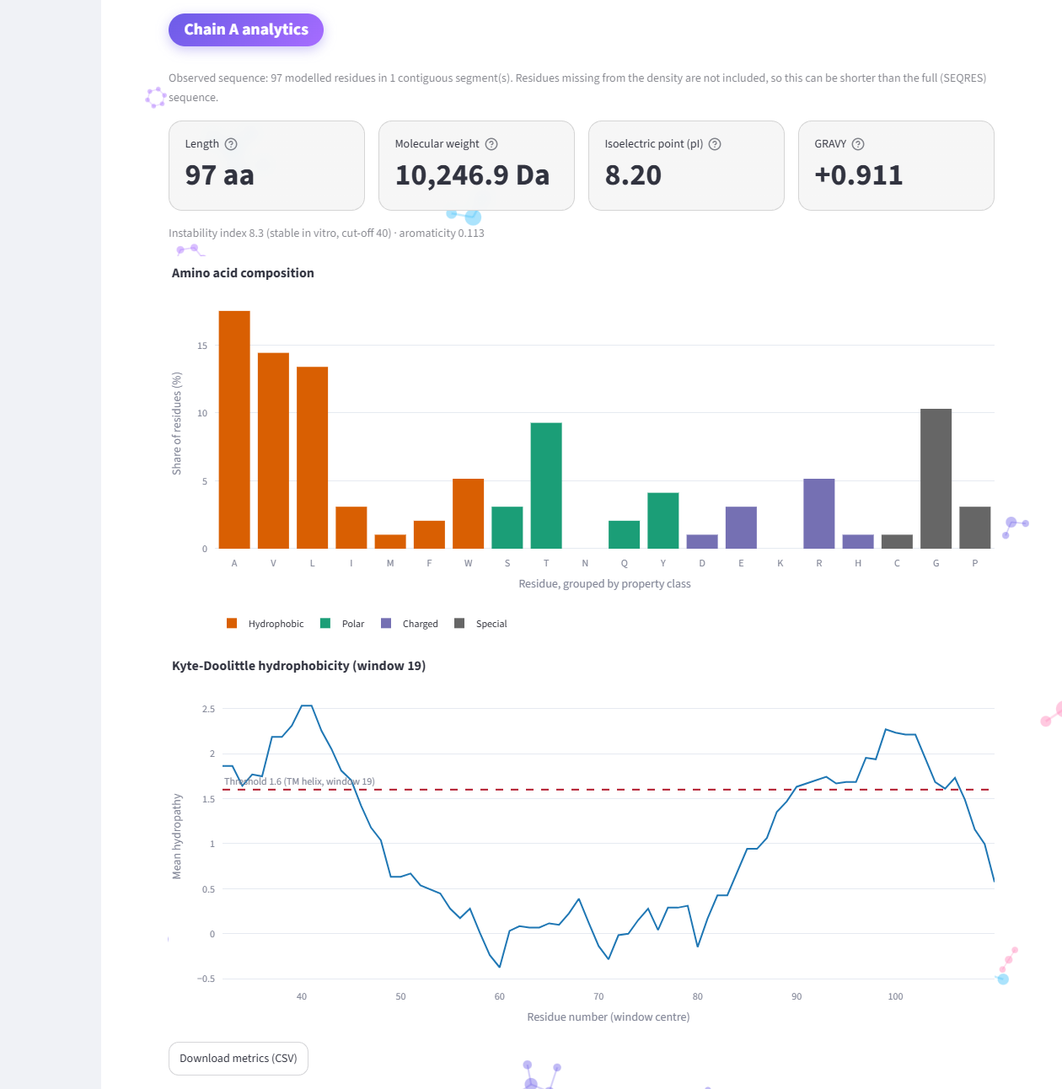
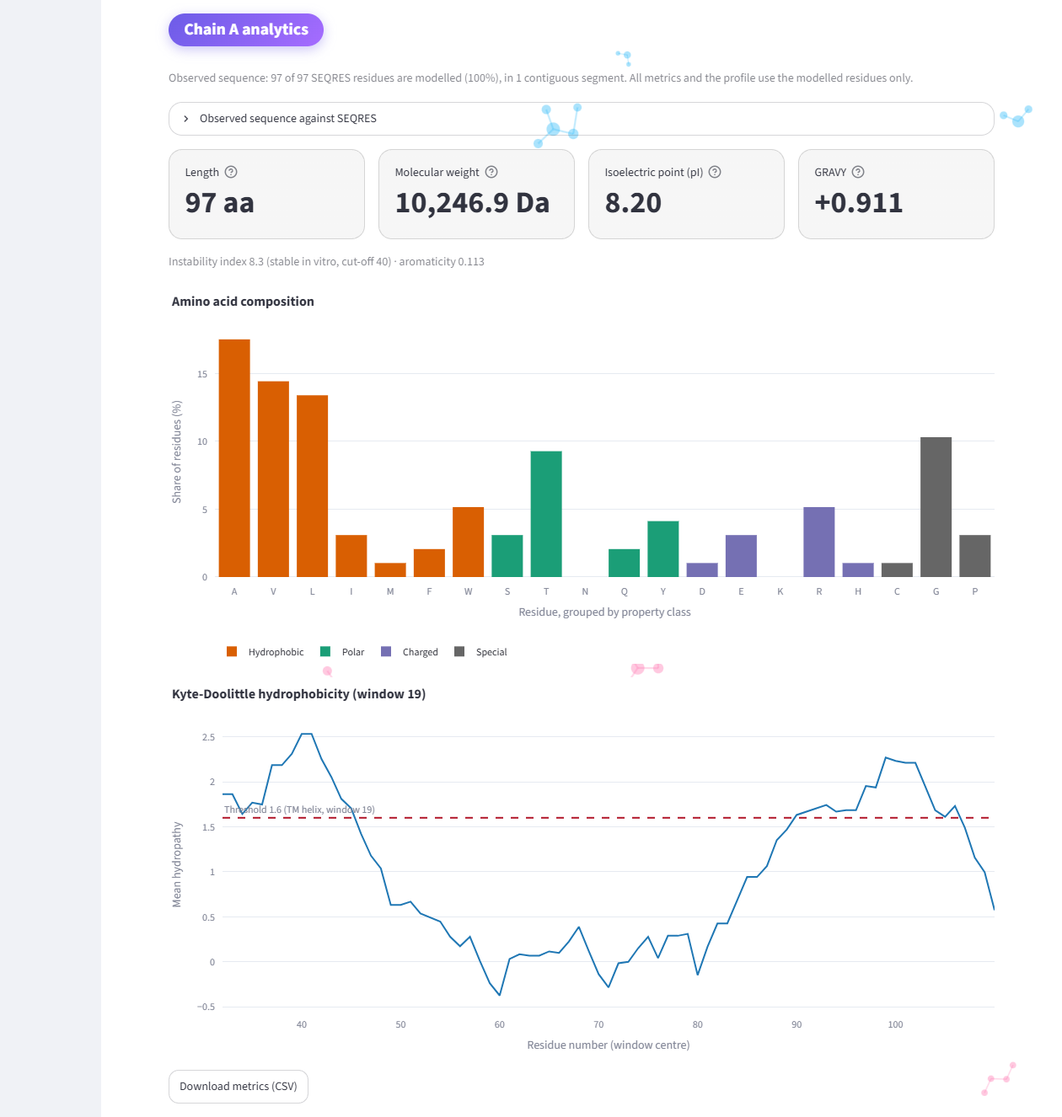
docs: describe gap handling, the SEQRES comparison and st.iframe
- README and interview notes: the profile breaks at gaps, the observed
  sequence is compared with SEQRES (6VXX: 972 of 1,281 deposited residues),
  st.iframe replaces components.html, and why the theme switch is still a
  workaround. Drop limitations that no longer apply and fix the stale claim
  that the viewer background follows the theme.
- Regenerate the charts screenshot for the new captions.
- Add scripts/demo_gif.py, which records the README demo GIF from a running
  app (imageio-ffmpeg joins the screenshots dependency group; the
  deployed requirements.txt is unchanged).

diff --git a/scripts/demo_gif.py b/scripts/demo_gif.py
@@ -1,0 +1,231 @@
+"""Record the README demo GIF from a running app: search -> 3D view -> hydrophobicity plot.
+
+uv sync --group screenshots && uv run playwright install chromium
+uv run python scripts/demo_gif.py --url https://protein-structure-dashboard.streamlit.app/~/+/
+
+On Streamlit Community Cloud the app itself is served under /~/+/ (the bare URL wraps it
+in an iframe). A first, unrecorded pass wakes the app and fills its caches, so the
+recording shows the app's speed rather than RCSB's. Playwright records a video, and the
+ffmpeg bundled with imageio-ffmpeg turns it into a palette-optimised GIF.
+"""
+
+from __future__ import annotations
+
+import argparse
+import re
+import subprocess
+import tempfile
+import time
+from pathlib import Path
+
+import imageio_ffmpeg
+from playwright.sync_api import Page, sync_playwright
+
+OUT = Path(__file__).resolve().parents[1] / "docs" / "img" / "demo.gif"
+# Software GL so the 3D view renders on machines (and CI runners) without a GPU.
+CHROMIUM_ARGS = ["--use-angle=swiftshader", "--enable-unsafe-swiftshader", "--ignore-gpu-blocklist"]
+VIEWPORT = {"width": 1280, "height": 720}
+QUERY = "bacteriorhodopsin"
+PDB_ID = "1KG8"  # a hit for the query, with a disordered loop that breaks the profile
+HYDROPHOBICITY = "Hydrophobicity (Kyte-Doolittle)"
+# Viewport positions of points along the profile's SVG line(s).
+PROFILE_POINTS_JS = """el => {
+  const points = [];
+  for (const path of el.querySelectorAll(".scatterlayer path.js-line")) {
+    const total = path.getTotalLength(), m = path.getScreenCTM();
+    for (let d = 0; d <= total; d += 6) {
+      const p = path.getPointAtLength(d);
+      points.push([p.x * m.a + p.y * m.c + m.e, p.x * m.b + p.y * m.d + m.f]);
+    }
+  }
+  return points;
+}"""
+SECONDS = 14.0  # plus a one-second hold on the last frame: 15 s in all
+HOLD_SECONDS = 1.0
+GIF_WIDTH = 960
+FPS = 12
+
+
+def wait_idle(page: Page) -> None:
+    """Streamlit is done when its 'running' indicator has gone."""
+    time.sleep(0.3)
+    page.locator("[data-testid=stStatusWidget]").wait_for(state="hidden", timeout=180_000)
+
+
+def open_app(page: Page, url: str) -> None:
+    page.goto(url, wait_until="domcontentloaded")
+    wake = page.get_by_role("button", name="Yes, get this app back up!")
+    title = page.get_by_text("Protein Structure Dashboard").first
+    title.or_(wake).wait_for(timeout=120_000)
+    if wake.is_visible():
+        wake.click()
+    title.wait_for(timeout=300_000)
+    page.get_by_role("button", name="1UBQ").wait_for(timeout=120_000)  # the gallery is drawn
+    wait_idle(page)
+
+
+def search_and_open(page: Page, *, typing_delay: float) -> None:
+    page.get_by_label("PDB ID or keyword").click()
+    page.get_by_label("PDB ID or keyword").type(QUERY, delay=typing_delay)
+    page.get_by_role("button", name="Search").click()
+    page.get_by_text("Top 10 results").wait_for(timeout=120_000)
+    wait_idle(page)
+    time.sleep(0.6)
+    page.get_by_role("button", name=PDB_ID).click()
+    page.get_by_text("analytics").first.wait_for(timeout=180_000)
+    wait_idle(page)
+
+
+def colour_by_hydrophobicity(page: Page) -> None:
+    page.locator("[data-testid=stSidebar] [data-testid=stSelectbox]").nth(1).click()
+    page.get_by_role("option", name=HYDROPHOBICITY).click()
+    wait_idle(page)
+
+
+def rotate_molecule(page: Page) -> None:
+    box = page.locator("[data-testid=stMain] iframe").first.bounding_box()
+    assert box
+    x, y = box["x"] + box["width"] / 2, box["y"] + box["height"] / 2
+    page.mouse.move(x - 120, y)
+    page.mouse.down()
+    for step in range(40):
+        page.mouse.move(x - 120 + step * 7, y + (step % 20 - 10) * 1.5)
+        time.sleep(0.03)
+    page.mouse.up()
+
+
+def show_profile(page: Page) -> None:
+    page.get_by_role("button", name="Transmembrane preset").click()
+    # Off the button and out of focus, so its help tooltip closes.
+    page.mouse.move(VIEWPORT["width"] - 40, 80)
+    page.evaluate("document.activeElement && document.activeElement.blur()")
+    page.get_by_text("Kyte-Doolittle hydrophobicity (window 19)").wait_for(timeout=60_000)
+    wait_idle(page)
+    # A smooth scroll so the GIF shows the page moving; a mouse wheel over the 3D view
+    # would zoom the molecule instead.
+    chart = page.locator(".stPlotlyChart").nth(1)
+    chart.evaluate("el => el.scrollIntoView({behavior: 'smooth', block: 'center'})")
+    time.sleep(1.5)
+    # Follow the drawn line up to its highest peak, so Plotly's hover label shows.
+    points = chart.evaluate(PROFILE_POINTS_JS)
+    peak = min(range(len(points)), key=lambda i: points[i][1])
+    for x, y in points[max(0, peak - 14) : peak + 1]:
+        page.mouse.move(x, y)
+        time.sleep(0.05)
+    time.sleep(1.5)
+
+
+def flash_start_marker(page: Page) -> None:
+    """Black out the page for a moment. ffmpeg finds that flash in the video and cuts just
+    after it: wall-clock times drift from the video's own timeline by a second or two."""
+    page.evaluate(
+        """() => {
+          const cover = document.createElement("div");
+          cover.id = "gif-start-marker";
+          cover.style.cssText = "position:fixed;inset:0;background:#000;z-index:2147483647";
+          document.body.append(cover);
+        }"""
+    )
+    time.sleep(0.6)
+    page.evaluate("document.getElementById('gif-start-marker').remove()")
+
+
+def record(url: str, video_dir: Path) -> Path:
+    """Warm the app up, then record the demo; returns the video file."""
+    with sync_playwright() as playwright:
+        browser = playwright.chromium.launch(args=CHROMIUM_ARGS)
+
+        warm = browser.new_page(viewport=VIEWPORT)
+        open_app(warm, url)
+        search_and_open(warm, typing_delay=0)
+        show_profile(warm)
+        warm.close()
+
+        context = browser.new_context(
+            viewport=VIEWPORT, record_video_dir=str(video_dir), record_video_size=VIEWPORT
+        )
+        page = context.new_page()
+        open_app(page, url)
+        flash_start_marker(page)
+        time.sleep(0.8)
+        search_and_open(page, typing_delay=70)
+        colour_by_hydrophobicity(page)
+        page.locator("[data-testid=stMain] iframe").first.screenshot()  # wake WebGL frames
+        time.sleep(1.0)
+        rotate_molecule(page)
+        time.sleep(0.5)
+        show_profile(page)
+        video = page.video
+        context.close()  # the video ends here
+        browser.close()
+        assert video
+        return Path(video.path())
+
+
+def video_seconds(ffmpeg: str, video: Path) -> float:
+    probe = subprocess.run([ffmpeg, "-i", str(video)], capture_output=True, text=True)
+    match = re.search(r"Duration: (\d+):(\d+):([\d.]+)", probe.stderr)
+    assert match, probe.stderr
+    hours, minutes, seconds = match.groups()
+    return int(hours) * 3600 + int(minutes) * 60 + float(seconds)
+
+
+def after_start_marker(ffmpeg: str, video: Path) -> float:
+    """Seconds into the video where the black start marker ends."""
+    probe = subprocess.run(
+        [ffmpeg, "-i", str(video), "-vf", "blackdetect=d=0.2:pix_th=0.1", "-an", "-f", "null", "-"],
+        capture_output=True,
+        text=True,
+    )
+    ends = re.findall(r"black_end:([\d.]+)", probe.stderr)
+    assert ends, "the black start marker was not found in the video"
+    return float(ends[-1]) + 0.1  # nothing in the app itself is ever all black
+
+
+def to_gif(video: Path, out: Path) -> None:
+    """Cut to the demo, fit it into SECONDS, hold the last frame, and encode with one
+    shared palette."""
+    ffmpeg = imageio_ffmpeg.get_ffmpeg_exe()
+    begin, end = after_start_marker(ffmpeg, video), video_seconds(ffmpeg, video)
+    speed = max(1.0, (end - begin) / SECONDS)
+    filters = (
+        f"setpts=PTS/{speed:.3f},fps={FPS},scale={GIF_WIDTH}:-1:flags=lanczos,"
+        f"tpad=stop_mode=clone:stop_duration={HOLD_SECONDS},"
+        "split[a][b];[a]palettegen=max_colors=128:stats_mode=diff[p];"
+        "[b][p]paletteuse=dither=bayer:bayer_scale=4:diff_mode=rectangle"
+    )
+    out.parent.mkdir(parents=True, exist_ok=True)
+    subprocess.run(
+        [
+            ffmpeg,
+            "-y",
+            "-ss",
+            f"{begin:.2f}",
+            "-to",
+            f"{end:.2f}",
+            "-i",
+            str(video),
+            "-vf",
+            filters,
+            "-loop",
+            "0",
+            str(out),
+        ],
+        check=True,
+        capture_output=True,
+    )
+
+
+def main() -> None:
+    parser = argparse.ArgumentParser(description=__doc__)
+    parser.add_argument("--url", default="http://localhost:8501")
+    parser.add_argument("--out", type=Path, default=OUT)
+    args = parser.parse_args()
+
+    with tempfile.TemporaryDirectory() as tmp:
+        to_gif(record(args.url, Path(tmp)), args.out)
+    print(f"Wrote {args.out} ({args.out.stat().st_size / 1e6:.1f} MB)")
+
+
+if __name__ == "__main__":
+    main()

diff --git a/README.md b/README.md
@@ -20,10 +20,11 @@ A Streamlit dashboard that fetches any entry from the [RCSB Protein Data Bank](h
 - **Search by PDB ID or keyword.** An ID such as `1UBQ` opens the entry directly. Free text such as `hemoglobin` runs an RCSB full-text search and lists the top hits. The selected entry is kept in the URL (`?pdb=1UBQ`), so every view is linkable.
 - **Interactive 3D viewer.** Cartoon rendering with three colouring modes: by chain, N→C spectrum, and per-residue Kyte-Doolittle hydrophobicity. It also offers an optional solvent-accessible surface, ligands as sticks, and dimming of the chains you are not analysing.
 - **Per-chain analytics.** Length, average molecular weight, isoelectric point, GRAVY, instability index and aromaticity, plus a composition bar chart grouped by property class (hydrophobic, polar, charged, special).
-- **Hydrophobicity profile.** A sliding-window Kyte-Doolittle plot with an adjustable odd window (3-39) and a one-click transmembrane preset (window 19, threshold 1.6). Hover shows the residue number and amino acid.
+- **Hydrophobicity profile.** A sliding-window Kyte-Doolittle plot with an adjustable odd window (3-39) and a one-click transmembrane preset (window 19, threshold 1.6). Hover shows the residue number and amino acid. No window ever spans a gap: the line breaks wherever residues are missing from the density (or non-standard), and residues that are in SEQRES but not modelled are shaded grey.
+- **Observed sequence against SEQRES.** Each chain says how many residues of the deposited (SEQRES) sequence are modelled, lists the missing stretches in the structure's own numbering, flags modelled residues that differ from SEQRES or have no SEQRES position, and shows both sequences aligned.
 - **CSV export** of the metrics for the selected chain.
 - **Interactive background.** Small ball-and-stick molecules drift behind the page, are pushed away by the mouse pointer, and faint bonds reach from the pointer to nearby molecules. It is one canvas drawn by a short script (`background.py`) with no network access, and it is switched off for visitors who ask their system for reduced motion.
-- **Navigation and theme.** A menu at the top of the sidebar has a Home button (back to the example gallery) and a light/dark switch. The 3D viewer's background follows the theme.
+- **Navigation and theme.** A menu at the top of the sidebar has a Home button (back to the example gallery) and a light/dark switch. The 3D viewer keeps a white canvas in both themes.
 - **Sensible handling of awkward entries.** Modified residues (e.g. selenomethionine), chains with gaps in the electron density, NMR ensembles (first model only), non-protein entries, and very large assemblies (backbone-only rendering above 50,000 atoms) are all handled and explained in the UI instead of crashing.
 
 ![Per-chain analytics: composition bars and a Kyte-Doolittle profile of KcsA (1BL8) with the transmembrane threshold](docs/img/charts.png)
@@ -44,7 +45,7 @@ flowchart LR
     Structure -. "sequence" .-> Analysis
     App --> Charts["charts.py<br/>Plotly figures"]
     Analysis --> Charts
-    App --> Viewer["viewer.py<br/>Py3Dmol view + components.html"]
+    App --> Viewer["viewer.py<br/>Py3Dmol view + st.iframe"]
     Structure --> Viewer
     Streamlit["streamlit_app.py<br/>Cloud entry point"] --> App
 ```
@@ -52,8 +53,8 @@ flowchart LR
 | Module | Responsibility | Touches network / Streamlit? |
 | --- | --- | --- |
 | `rcsb_client.py` | Fetch entry metadata, mmCIF files and search results. Retries with backoff. | Network only |
-| `structure.py` | Parse mmCIF with Biopython into chains, observed sequences and ligands. Trim files for the viewer. | No |
-| `analysis.py` | Composition, MW, pI, GRAVY, Kyte-Doolittle windows. | No |
+| `structure.py` | Parse mmCIF with Biopython into chains, observed sequences, gaps, SEQRES and ligands. Compare observed with SEQRES. Trim files for the viewer. | No |
+| `analysis.py` | Composition, MW, pI, GRAVY, gap-aware Kyte-Doolittle windows. | No |
 | `charts.py` | Turn analysis results into Plotly figures. | No |
 | `viewer.py` | Build a Py3Dmol scene and embed it. | Streamlit only in one wrapper function |
 | `app.py` | Layout, widgets, caching, error messages. | Streamlit |
@@ -99,9 +100,11 @@ The image is multi-stage (dependencies are installed with uv in a builder stage)
 
 **Caching and rate limits.** RCSB is a free public service, so the app is polite to it. Entry metadata, mmCIF text, parsed structures and search results are cached with `st.cache_data` for 24 hours (PDB entries are effectively immutable, so stale data is not a real risk). The client sends a descriptive `User-Agent`, uses connect/read timeouts, and retries only what is worth retrying: connection errors, timeouts, HTTP 429 and 5xx. It honours `Retry-After` (capped at 10 s) and otherwise backs off exponentially. A 404 is not retried; it becomes a clear "entry not found" message. Retry sleeping is injectable, so the tests do not actually wait.
 
-**Why `components.html` and not `stmol`.** `stmol` is a thin wrapper around Py3Dmol that adds a dependency and tends to lag behind Streamlit releases. Py3Dmol already produces a self-contained HTML page via `view._make_html()`, and Streamlit can embed it with `streamlit.components.v1.html`. The entire embedding lives in one function, `viewer.show_view`, so swapping the mechanism later is a one-function change. Note that recent Streamlit versions print a deprecation notice for `components.html` in favour of `st.iframe`. It still works, and that one wrapper is where the migration would happen.
+**Why `st.iframe` and not `stmol`.** `stmol` is a thin wrapper around Py3Dmol that adds a dependency and tends to lag behind Streamlit releases. Py3Dmol already produces a self-contained HTML page via its public `view.write_html()`, and Streamlit embeds it with `st.iframe`, the supported replacement for the deprecated `streamlit.components.v1.html`. `st.iframe` runs that HTML with full JavaScript access, so it must never receive user input; here the page is built by our own code from RCSB coordinates. The entire embedding lives in one function, `viewer.show_view`.
 
-**Observed sequence versus SEQRES.** The chain sequence the dashboard analyses is the *observed* one: the residues that actually have coordinates in the structure. The deposited full-length (SEQRES) sequence can be longer, because flexible loops, tags and termini are often missing from the electron density. For example, chain A of the SARS-CoV-2 spike in 6VXX has 972 modelled residues in 12 segments, while the full chain is 1,273 residues. Analysing the observed sequence keeps the 3D view, the sequence and the plots consistent with one another (residue numbers in the hover text match the structure), and the UI says explicitly when the observed sequence is shorter than expected. Known modified residues are mapped to their parent amino acid (for example selenomethionine to methionine) and unknown ones become `X`, so positions in the sequence never shift.
+**Observed sequence versus SEQRES.** The chain sequence the dashboard analyses is the *observed* one: the residues that actually have coordinates in the structure. The deposited (SEQRES) sequence can be longer, because flexible loops, tags and termini are often missing from the electron density. For example, chain A of the SARS-CoV-2 spike in 6VXX has 972 modelled residues in 12 segments, out of 1,281 in the deposited sequence. Analysing the observed sequence keeps the 3D view, the sequence and the plots consistent with one another (residue numbers in the hover text match the structure). The UI then shows exactly where the two differ. It reads the SEQRES-to-structure mapping (`_pdbx_poly_seq_scheme`) from the mmCIF file it has already downloaded, so there is no extra request. It lines the modelled residues up with it by author residue number, and lists the stretches that are not modelled (in 6VXX: −18 to 26, 70–79, 144–164 and so on). It also lists any modelled residue whose type differs from SEQRES, and any that has no SEQRES position. Known modified residues are mapped to their parent amino acid (for example selenomethionine to methionine) and unknown ones become `X`, so positions in the sequence never shift.
+
+**Gaps break the hydrophobicity profile.** A sliding window that runs across a gap averages residues that are not neighbours in the chain. For example, the last residues before a disordered loop get averaged with the first residues after it, which can invent a hydrophobic stretch or hide one. So the profile is computed separately for each gap-free stretch of standard residues. Each stretch of length *n* gives *n − w + 1* points, stretches shorter than the window give none, and the plotted line is broken between stretches. Gaps are detected from the coordinates rather than from the numbering. Two consecutive residues are neighbours if their peptide bond C–N is under 1.8 Å, or, in models that have only Cα atoms, if Cα–Cα is under 4.3 Å. This also catches loops that the depositors left out of SEQRES altogether, as in bacteriorhodopsin 1C3W, where residues 157–161 are missing from both. A non-standard residue (`X`) breaks a window too, because it has no Kyte-Doolittle value. The window slider is capped at the longest gap-free stretch, so every offered window produces a profile.
 
 **Server-side file trimming for the viewer.** Large mmCIF files are expensive for the browser. Before sending a structure to the viewer, `structure.trim_mmcif` keeps only the first model and the atoms needed for a cartoon (plus the secondary-structure records), and above 50,000 atoms the viewer drops the surface, ligands and chain dimming.
 
@@ -112,11 +115,11 @@ make test          # pytest with coverage, no network required
 make lint          # ruff check, ruff format --check, mypy
 ```
 
-- 132 tests, about 97% line coverage, none of which touch the network.
-- `analysis`: ubiquitin molecular weight (≈ 8564.7 Da), composition sums to 100%, Kyte-Doolittle profile length is `L - w + 1`, invalid characters are handled, window validation.
-- `structure`: a real 1UBQ mmCIF fixture (`tests/data/1UBQ.cif`: one chain, 76 residues, expected sequence) and synthetic files for modified residues, gaps, ligands, water and multiple models.
+- 161 tests, about 98% line coverage, none of which touch the network.
+- `analysis`: ubiquitin molecular weight (≈ 8564.7 Da), composition sums to 100%, Kyte-Doolittle profile length is `L - w + 1` and matches Biopython on a gap-free chain, no window spans a gap or an `X`, invalid characters are handled, window validation.
+- `structure`: a real 1UBQ mmCIF fixture (`tests/data/1UBQ.cif`: one chain, 76 residues, expected sequence, SEQRES fully modelled) and synthetic files for modified residues, gaps, Cα-only models, ligands, water, multiple models, and SEQRES with missing, mismatched, heterogeneous and unmatched residues.
 - `rcsb_client`: HTTP mocked with [`responses`](https://github.com/getsentry/responses): success, 404, 429 followed by success, timeouts, retry exhaustion, invalid IDs.
-- `app`: Streamlit's `AppTest` smoke tests drive the real UI against a fake client.
+- `app`: Streamlit's `AppTest` smoke tests drive the real UI against a fake client, including a synthetic gapped entry (SEQRES summary, warnings, alignment, slider cap) and the one-off theme script.
 - CI (`.github/workflows/ci.yml`) runs lint → tests with coverage → Docker build and container health check, and verifies that `requirements.txt` is in sync with `uv.lock`.
 
 The screenshots in this README are generated by `scripts/screenshots.py` (Playwright, headless Chromium) against a running app:
@@ -127,16 +130,23 @@ uv run streamlit run streamlit_app.py --server.port 8599 &
 uv run python scripts/screenshots.py --url http://localhost:8599
 ```
 
+The demo GIF at the top is recorded the same way by `scripts/demo_gif.py`, here against the live demo. The script warms the app up first, records a Playwright video, and converts it with the ffmpeg bundled in `imageio-ffmpeg`. On Community Cloud the app itself is served under `/~/+/`:
+
+```bash
+uv run python scripts/demo_gif.py --url https://protein-structure-dashboard.streamlit.app/~/+/
+```
+
 ## Limitations and next steps
 
 - **Live API dependency.** If RCSB is down or slow, the app shows an error; there is no persistent cache or offline mode beyond Streamlit's in-memory cache.
-- **Observed sequences only.** The SEQRES sequence is not analysed, and Kyte-Doolittle windows slide across gaps in the observed sequence as if the residues were adjacent. Modified residues are analysed as their parent amino acid (so the mass of selenomethionine is that of methionine), and unknown residues become `X`, are excluded from the metrics, and are reported in the UI.
+- **Observed sequences only.** The metrics describe the modelled residues. SEQRES is shown and compared with them, but not analysed itself, so for example the molecular weight is not that of the full deposited chain. Modified residues are analysed as their parent amino acid (so the mass of selenomethionine is that of methionine), and unknown residues become `X`, are excluded from the metrics, and are reported in the UI.
+- **Microheterogeneity.** A few entries deposit two residue types at one position (crambin 1EJG, for example). Biopython's mmCIF parser rejects those files, so the app shows a parse error for them instead of a structure.
 - **Average molecular weight only** (monoisotopic mass is implemented in the analysis function but not exposed in the UI), and only for the protein chains; nucleic acid chains are skipped.
 - **Very large assemblies** (e.g. ribosomes) can take 20 s or more to download and render, and are drawn as backbone only.
-- **The theme switch is a workaround.** Streamlit has no Python API to change the theme, so the sidebar button runs a tiny script that presses the item in Streamlit's own menu (and its "Rerun", because `st.context.theme` only updates on the next run). It relies on that menu's internal element IDs, so it is tested against the pinned Streamlit version and does nothing, rather than breaking, if they change. The built-in menu (⋮ → Light / Dark) always works.
+- **The theme switch is a workaround.** Streamlit (checked up to 1.66.1, the latest release) has no supported way to change the theme: `st.context.theme` is read-only, and theme options cannot be set while the app runs. So the sidebar button runs a tiny script that presses the item in Streamlit's own menu (and its "Rerun", because `st.context.theme` only updates on the next run and the button's icon depends on it). The script goes through the supported `st.html(..., unsafe_allow_javascript=True)`, not the deprecated `components.html`. It still relies on the menu's internal element IDs, so it is tested against the pinned Streamlit version and does nothing, rather than breaking, if they change. The built-in menu (⋮ → Light / Dark) always works.
 - **Classic four-character PDB IDs only**; the extended `pdb_` format is not supported.
 - **Docker image is about 850 MB**; a smaller image would need dependency pruning.
-- **Next steps:** analyse SEQRES via the polymer entity API, compare chains side by side, add secondary-structure and B-factor views, precompute metrics for popular entries, and move to `st.iframe` once it is the stable embedding mechanism.
+- **Next steps:** offer metrics for the full SEQRES sequence next to the observed ones, compare chains side by side, add secondary-structure and B-factor views, and precompute metrics for popular entries.
 
 ## License
 

diff --git a/docs/INTERVIEW.md b/docs/INTERVIEW.md
@@ -6,9 +6,9 @@ Written for my own preparation. Everything below describes what is actually in t
 
 I built a Streamlit dashboard for exploring protein structures. You type a PDB ID or a keyword, it fetches the entry from the RCSB Protein Data Bank over their REST API, shows an interactive 3D model with Py3Dmol, and analyses each protein chain with Biopython: amino acid composition, molecular weight, isoelectric point, GRAVY, and a sliding-window Kyte-Doolittle hydrophobicity profile, all as interactive Plotly charts.
 
-The part I care most about is the structure of the code. The analysis module is pure Python: it takes a string and returns numbers, with no Streamlit or network inside, so I could test it against known values like the molecular weight of ubiquitin. The RCSB client has timeouts, retries with backoff for 429 and 5xx, and is tested with mocked HTTP, so the whole test suite (132 tests, about 97% coverage) runs in CI without a network. It is containerised with a multi-stage, non-root Docker image, and GitHub Actions runs ruff, mypy, pytest and a Docker build on every push.
+The part I care most about is the structure of the code. The analysis module is pure Python: it takes a string and returns numbers, with no Streamlit or network inside, so I could test it against known values like the molecular weight of ubiquitin. The RCSB client has timeouts, retries with backoff for 429 and 5xx, and is tested with mocked HTTP, so the whole test suite (161 tests, about 98% coverage) runs in CI without a network. It is containerised with a multi-stage, non-root Docker image, and GitHub Actions runs ruff, mypy, pytest and a Docker build on every push.
 
-A lesson from using real data: the sequence of a PDB chain is not what you think it is. Only residues that were actually modelled have coordinates, so I analyse the observed sequence and say so in the UI instead of silently showing numbers for a different sequence than the one in the 3D view.
+A lesson from using real data: the sequence of a PDB chain is not what you think it is. Only residues that were actually modelled have coordinates, so I analyse the observed sequence, show exactly where it differs from the deposited one, and never let a hydrophobicity window run across a gap as if the residues on either side were neighbours.
 
 ## Questions and answers
 
@@ -16,7 +16,7 @@ A lesson from using real data: the sequence of a PDB chain is not what you think
 The legacy PDB format has fixed-width columns that cap out at 99,999 atoms, 62 chains and 3-character residue names. Large structures such as ribosomes and viral capsids cannot be written in it, and the PDB archive no longer guarantees PDB-format files for new entries. mmCIF is the archive's primary format; it is a self-describing key-value/table format, extensible, and Biopython's `MMCIFParser` reads it. The cost is that it is verbose and slower to parse, which is why I trim files before they go to the browser.
 
 ### 2. What is the difference between the observed sequence and SEQRES?
-SEQRES is the full sequence of the molecule that was deposited. The observed sequence is the subset of residues that have atomic coordinates. Disordered loops, flexible termini and expression tags are often missing from the electron density, so the observed sequence can be shorter and have gaps. In 6VXX, chain A of the SARS-CoV-2 spike has 972 modelled residues in 12 segments, against 1,273 in the full chain. I analyse the observed sequence so the metrics, the plots and the 3D view all describe the same residues, and I show a caption explaining it. The trade-off is that the metrics (molecular weight especially) are not those of the full protein, which I list as a limitation.
+SEQRES is the full sequence of the molecule that was deposited. The observed sequence is the subset of residues that have atomic coordinates. Disordered loops, flexible termini and expression tags are often missing from the electron density, so the observed sequence can be shorter and have gaps. In 6VXX, chain A of the SARS-CoV-2 spike has 972 modelled residues in 12 segments, against 1,281 in the deposited sequence. I analyse the observed sequence so the metrics, the plots and the 3D view all describe the same residues. The UI also shows where the two differ. The mmCIF file already contains the SEQRES-to-structure mapping (`_pdbx_poly_seq_scheme`), so I line the modelled residues up with it by author number. Then I list the missing stretches, flag any modelled residue whose type differs from SEQRES, and show both sequences aligned. The trade-off is that the metrics (molecular weight especially) are not those of the full protein, which I list as a limitation.
 
 ### 3. What is GRAVY, and how does it differ from the hydrophobicity profile?
 GRAVY (grand average of hydropathy) is the mean Kyte-Doolittle value over all residues of the chain: one number for the whole protein. Positive means more hydrophobic overall, negative means more hydrophilic (ubiquitin is about -0.49). The profile is the same scale averaged over a sliding window, so it keeps position information and shows where the hydrophobic stretches are. The single number can hide that a protein is, for instance, mostly polar with one transmembrane helix.
@@ -25,7 +25,7 @@ GRAVY (grand average of hydropathy) is the mean Kyte-Doolittle value over all re
 The pI is the pH at which the protein has zero net charge. Each ionisable group (N-terminus, C-terminus, and the side chains of Asp, Glu, His, Cys, Tyr, Lys, Arg) contributes a charge that depends on its pKa and the pH, via Henderson-Hasselbalch. Biopython sums these and searches for the pH where the total is zero. It is an estimate: pKa values shift with the local environment in a folded protein, which this simple model ignores, and different tools use different pKa tables, so values differ slightly between them.
 
 ### 5. Why a window of 9 by default, and 19 for the transmembrane preset?
-These come from the original Kyte and Doolittle paper (1982). A short window (about 9) gives a profile that highlights local hydrophobic and hydrophilic stretches, such as buried versus exposed segments. A membrane-spanning alpha helix is around 20 residues long, so a window of 19 averages across roughly one helix, and a mean above about 1.6 is the paper's suggested cut-off for a likely transmembrane segment. The window must be odd so that it has a centre residue, and each point is plotted at that centre. For a chain of length L and window w the profile has L - w + 1 values, which is one of my tests. The UI caps the window at the chain length and at 39. For KcsA (1BL8) the preset shows peaks above the threshold around the helices, which I checked in the app; it is a heuristic, not a prediction tool.
+These come from the original Kyte and Doolittle paper (1982). A short window (about 9) gives a profile that highlights local hydrophobic and hydrophilic stretches, such as buried versus exposed segments. A membrane-spanning alpha helix is around 20 residues long, so a window of 19 averages across roughly one helix, and a mean above about 1.6 is the paper's suggested cut-off for a likely transmembrane segment. The window must be odd so that it has a centre residue, and each point is plotted at that centre. For a gap-free chain of length L and window w the profile has L - w + 1 values, which is one of my tests. A window never crosses a gap: each gap-free stretch is profiled on its own and the line is broken between them. Otherwise the residues on both sides of a disordered loop would be averaged together. Gaps come from the coordinates (C-N peptide bond over 1.8 Å, or Cα-Cα over 4.3 Å in Cα-only models), not from the numbering. The UI caps the window at the longest gap-free stretch and at 39. For KcsA (1BL8) the preset shows peaks above the threshold around the helices, which I checked in the app; it is a heuristic, not a prediction tool.
 
 ### 6. Average versus monoisotopic mass: which one do you report?
 I report the average mass, which weights each element by its natural isotope abundances; it is what you get from the molecular formula and is the usual "molecular weight" for a protein on a gel or in a table. Monoisotopic mass uses only the most abundant isotope of each element, and is what high-resolution mass spectrometry resolves for small peptides. For large proteins the monoisotopic peak is tiny and not practically observed, so average is the right default. The analysis function has a `monoisotopic` flag, but the UI does not expose it. Ubiquitin comes out at 8,564.7 Da, and a test checks that to within 1 Da.
@@ -39,8 +39,8 @@ With the `responses` library, which patches the `requests` transport layer. The 
 ### 9. How do you handle caching and RCSB rate limits?
 Metadata, file text, parsed structures and search results are cached with `st.cache_data` with a 24-hour TTL. PDB entries are practically immutable once released, so the cache is safe, and it means that moving a slider or switching a chart does not re-fetch anything. Streamlit reruns the script on every interaction, so without caching the app would hammer RCSB. The client sends an identifying `User-Agent`, uses timeouts, and backs off exponentially on 429/5xx. The cache is per-process and in memory, and is cleared on restart, which is fine here but is not a solution for many users (see question 13).
 
-### 10. Why `components.html` instead of `stmol`?
-`stmol` is a third-party wrapper that adds a dependency and a compatibility risk with Streamlit versions, and Py3Dmol already generates a complete HTML/JS page with `_make_html()`. Embedding that with Streamlit's own `components.html` needs no additional package. I put it inside a single function, `viewer.show_view`. The honest caveat is that newer Streamlit versions mark `components.html` as deprecated in favour of `st.iframe`, so there will be a migration, and it is a one-function change because of that wrapper.
+### 10. Why `st.iframe` instead of `stmol`?
+`stmol` is a third-party wrapper that adds a dependency and a compatibility risk with Streamlit versions, and Py3Dmol already generates a complete HTML/JS page with its public `write_html()`. Streamlit embeds that with `st.iframe`, so no additional package is needed. I first used `components.html`, which Streamlit has since deprecated in favour of `st.iframe`. Because the embedding lives in a single function, `viewer.show_view`, the migration was a one-line change plus its test. `st.iframe` gives the HTML full JavaScript access, which is fine here because the page is built by my code from RCSB coordinates and never from user input.
 
 ### 11. What did you do about very large structures?
 The browser is the bottleneck. A ribosome entry (4V6X) has about 237,000 atoms and took about 22 seconds to load. I first trim the mmCIF on the server: first model only (NMR entries contain many models that would otherwise be stacked on top of each other), and only the atoms needed for a cartoon. Above 50,000 atoms the viewer goes further: backbone only, with no surface, no ligands and no chain dimming, and the UI shows a warning. I picked the threshold from testing a few entries, not from a formal benchmark, so it is a judgement call.
@@ -55,14 +55,14 @@ Right now it is a single process with an in-memory cache, which is fine for a de
 `uv.lock` gives reproducible installs locally, in CI and in Docker (`uv sync --frozen`). Streamlit Community Cloud reads `requirements.txt` and not `uv.lock`, so I generate it from the lockfile with `uv export`, adding `-e .` so the `src/` package is installed. CI regenerates it and fails if it differs from the committed file, so it cannot drift. Using the lockfile also means the app that CI tested is the app that gets deployed.
 
 ### 15. What would you change if you had another week?
-First, analyse the SEQRES sequence by fetching it from the polymer entity API, and let the user switch between observed and full. Second, treat Kyte-Doolittle windows more carefully across gaps (right now they slide across missing residues as if they were adjacent). Third, add an end-to-end browser test in CI; today the unit and `AppTest` tests do not exercise the actual 3D rendering, which I verified manually with headless Chromium. Fourth, shrink the Docker image, which is about 850 MB.
+First, offer metrics for the full SEQRES sequence next to the observed ones (today SEQRES is compared and shown, not analysed). Second, add an end-to-end browser test in CI; today the unit and `AppTest` tests do not exercise the actual 3D rendering, which I verified manually with headless Chromium. Third, shrink the Docker image, which is about 850 MB.
 
 ## Read the code in this order
 
 1. `src/protein_dashboard/analysis.py` - the core: pure functions for composition, MW, pI, GRAVY and Kyte-Doolittle windows. Start here, as it is the most self-contained.
 2. `tests/test_analysis.py` - how the analysis is tested with known values (ubiquitin MW, profile length, invalid input).
 3. `src/protein_dashboard/rcsb_client.py` - the HTTP layer: retries, backoff, `Retry-After`, ID validation, error types. Then `tests/test_rcsb_client.py` for the mocked scenarios.
-4. `src/protein_dashboard/structure.py` - mmCIF parsing: observed sequence, segments and gaps, modified residues, ligands, and `trim_mmcif`.
-5. `src/protein_dashboard/viewer.py` - the Py3Dmol scene, the three colour modes, the heavy-structure guard, and the single `show_view` wrapper.
+4. `src/protein_dashboard/structure.py` - mmCIF parsing: observed sequence, segments and gaps, SEQRES and the comparison with it, modified residues, ligands, and `trim_mmcif`.
+5. `src/protein_dashboard/viewer.py` - the Py3Dmol scene, the three colour modes, the heavy-structure guard, and the single `show_view` wrapper around `st.iframe`.
 6. `src/protein_dashboard/app.py` - how it all comes together: query params as state, caching, error handling. Note how little logic it contains.
 7. `Dockerfile` and `.github/workflows/ci.yml` - multi-stage build, non-root user, healthcheck, and the lint → test → docker pipeline.
